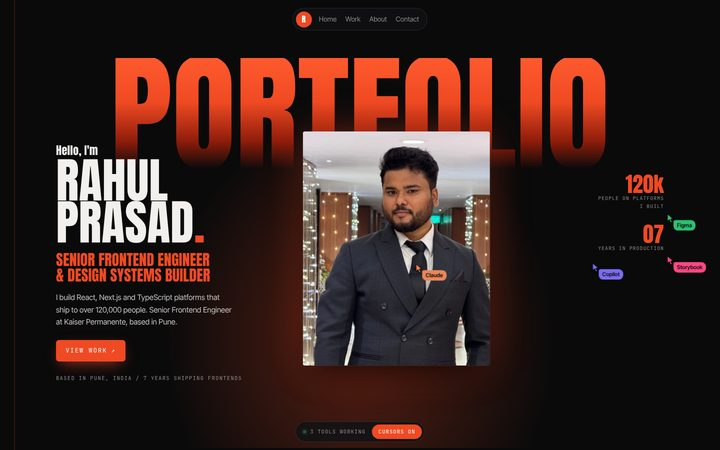
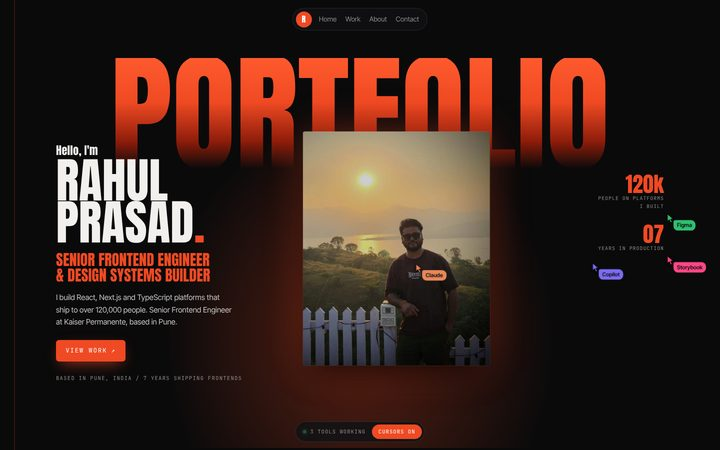
Use the original sunset photo in the Live build hero
Swap the suit photo for the portfolio's original photo, cropped to 4:5
around Rahul with the sun and lake kept in frame.

Changed region(s): [[0.3972, 0.28, 0.7028, 0.8089]]

diff --git a/designs/live/script.js b/designs/live/script.js
@@ -63,7 +63,7 @@
         <section class="hero" aria-labelledby="hero-name">
             <p class="hero__word" aria-hidden="true" data-select="Text / Portfolio">Portfolio</p>
             <figure class="hero__photo" data-select="Image / Rahul">
-                <img src="../../images/rahul-suit-photo.webp" alt="Rahul in a dark double-breasted suit, white shirt and black tie" width="960" height="1200">
+                <img src="../../images/rahul-photo-crop.webp" alt="${e(P.photoAlt)}" width="960" height="1200">
             </figure>
 
             <div class="hero__copy">
